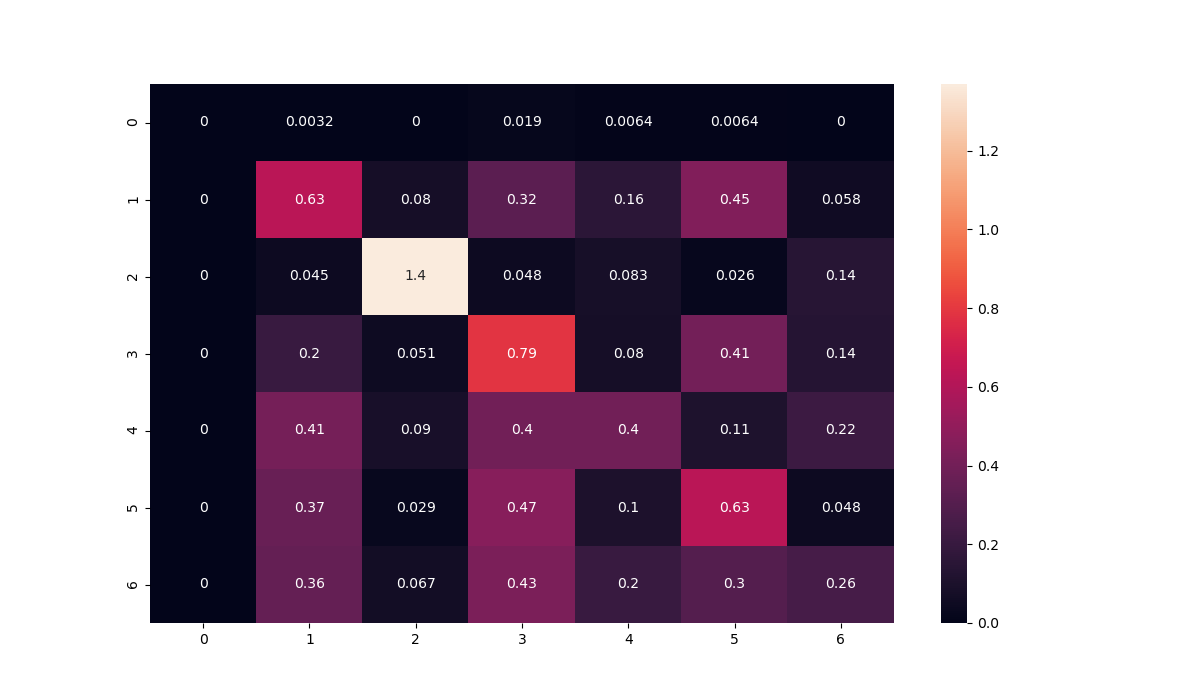
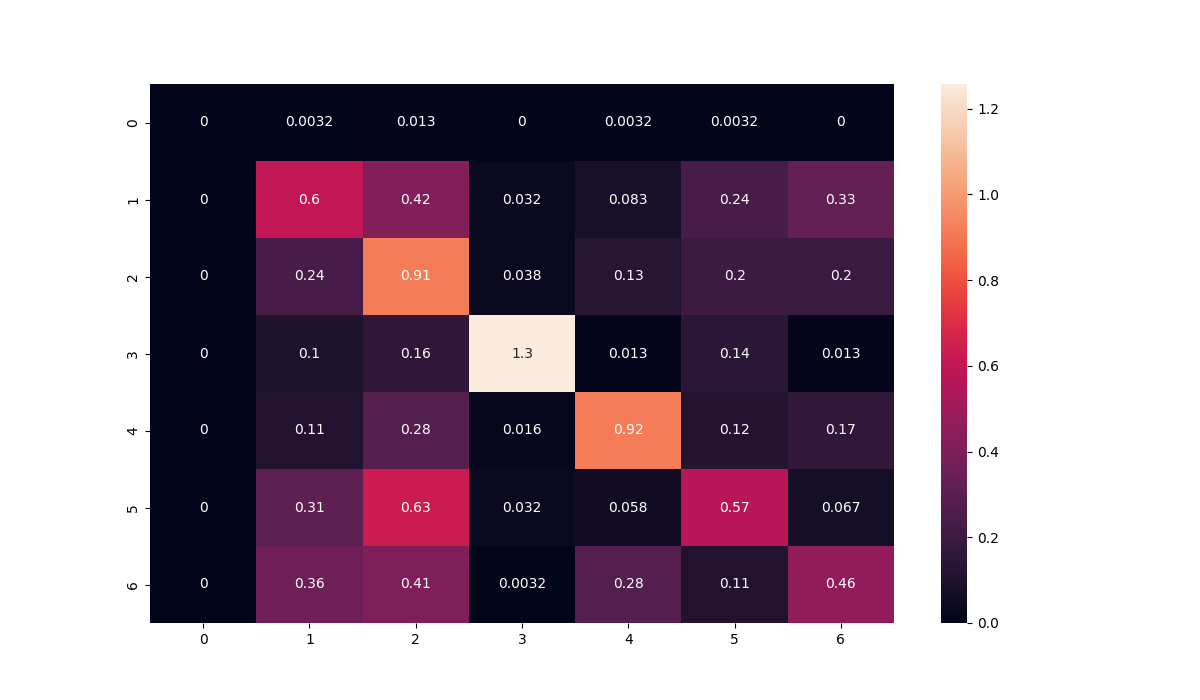
fixing some stuff?

diff --git a/dataprep/process_trigger.py b/dataprep/process_trigger.py
@@ -127,14 +127,14 @@ def read_triggers(read_paths, trigger_id, weighted_average = False):
     
     return all_triggers
 
-injection_triggers = read_triggers(injection_files, 0)
-blip_triggers = read_triggers(blip_files, 1)
-koyfish_triggers = read_triggers(koyfish_files, 2)
-lowfreq_triggers = read_triggers(lowfreq_files, 3)
-tomte_triggers = read_triggers(tomte_files, 4)
-whistle_triggers = read_triggers(whistle_files, 5)
+injection_triggers = read_triggers(injection_files, 0, True)
+blip_triggers = read_triggers(blip_files, 1, True)
+koyfish_triggers = read_triggers(koyfish_files, 2, True)
+lowfreq_triggers = read_triggers(lowfreq_files, 3, True)
+tomte_triggers = read_triggers(tomte_files, 4, True)
+whistle_triggers = read_triggers(whistle_files, 5, True)
 if detector != 'V1':
-    fast_scattering_triggers = read_triggers(fast_scattering_files, 6)
+    fast_scattering_triggers = read_triggers(fast_scattering_files, 6, True)
 
 np.save('../datasets/injection_triggers_' + detector + '.npy', injection_triggers)
 np.save('../datasets/blip_triggers_' + detector + '.npy', blip_triggers)

diff --git a/src/main.py b/src/main.py
@@ -60,8 +60,8 @@ a = "ReLU"
 #model = OneLayer(n_units, a)
 #m = "OneLayer"
 
-model = Perceptron(num_classes)
-m = "Perceptron"
+model = OneLayer(num_classes, n_units, a)
+m = "OneLayer"
 print(model)
 
 i = 0
@@ -69,13 +69,13 @@ i = 0
 with open("../dataprep/datasize.txt", 'r') as f:
     for line in f:
         if i == 0:
-            biggest = round(int(line)/100)*100
+            biggest = int(line)
             i += 1
         if i == 1:
             injection_size = int(line)
 
 size_ratio = biggest/injection_size
-size_ratio = 1
+#size_ratio = 1
 
 # specifications for the loss function
 if detector != "V1":
@@ -86,7 +86,7 @@ loss_fn = nn.CrossEntropyLoss(weight=class_weights)
 l = "CrossEntropyLoss"
 
 # specifications for compiling the model
-epochs = 20000
+max_epochs = 20000
 optimizer = torch.optim.Adam(model.parameters(), lr=lr)
 lr_scheduler = lr_scheduler.ReduceLROnPlateau(optimizer, mode = 'max', factor = lr_decay_factor, patience = lr_decay_patience)
 o = "Adam"

diff --git a/dataprep/bootstrap.py b/dataprep/bootstrap.py
@@ -18,7 +18,7 @@ else:
     biggest = max(len(blips), len(koyfishes), len(lowfreqs), len(tomtes), len(whistles))
 
 with open("datasize.txt", "w") as f:
-    f.write(str(biggest) + "\n" + str(len(injections)))
+    f.write(str(round(biggest/100)*100) + "\n" + str(len(injections)))
 
 def bootstrap(glitch):
     glitch_boot = [[]]
@@ -55,8 +55,8 @@ lowfreq_boot = bootstrap(lowfreqs)
 tomte_boot = bootstrap(tomtes)
 whistle_boot = bootstrap(whistles)
 
-#injection_boot = injections
-injection_boot = injections[0:round(biggest/100)]
+injection_boot = injections
+#injection_boot = injections[0:round(biggest/100)]
 
 dataset = np.append(injection_boot, blip_boot, axis = 0)
 if detector != "V1":

diff --git a/one-class/main.py b/one-class/main.py
@@ -1,0 +1,4 @@
+from sklearn.svm import OneClassSVM
+
+# define outlier detection model
+model = OneClassSVM(gamma='scale', nu=0.01)
